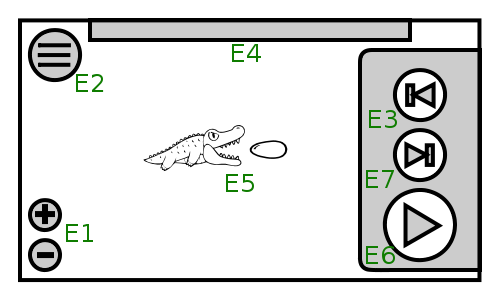
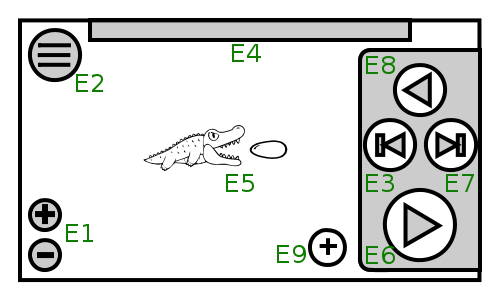
Make Simulationsmodus consistent

Changed region(s): [[0.72, 0.18, 0.96, 0.66], [0.54, 0.75, 0.72, 0.9]]

diff --git a/pflichtenheft/Systemmodelle/benutzerschnittstelle.tex b/pflichtenheft/Systemmodelle/benutzerschnittstelle.tex
@@ -87,13 +87,15 @@ Wird beim Neustarten der App als Erstes geöffnet. Wird die App zum Ersten mal v
 \end{center}
 
 \begin{requirements}
-\req{B1} Zoom: Vergrößert/verkleinert die Termansicht. Kann im Einstellungsmenü (de-)aktiviert werden.
+\req{E1} Zoom: Vergrößert/verkleinert die Termansicht. Kann im Einstellungsmenü (de-)aktiviert werden.
 \req{E2} Öffnet das Spielmenü.
 \req{E3} Setzt, sofern möglich, die Simulation um einen Schritt zurück.
 \req{E4} Anwählen oder nach unten ziehen zeigt die zur Lösung des Levels zu erreichende Konstellation.
 \req{E5} Arbeitsfläche. Im Simulationsmodus kann diese nicht mehr verändert werden.
 \req{E6} Startet/pausiert den automatischen Simulationsdurchlauf.
 \req{E7} Führt einen einzelnen Schritt der Simulaton aus.
+\req{E8} Bricht die Simulation ab und kehrt zum Platziermodus zurück.
+\req{E9} Einstellungsmöglichkeit für die Geschwindigkeit der automatischen Simulation. Es stehen zwei Geschwindigkeitsstufen zur Verfügung.
 \end{requirements}
 
 \subsubsection{Levelerfolg}
